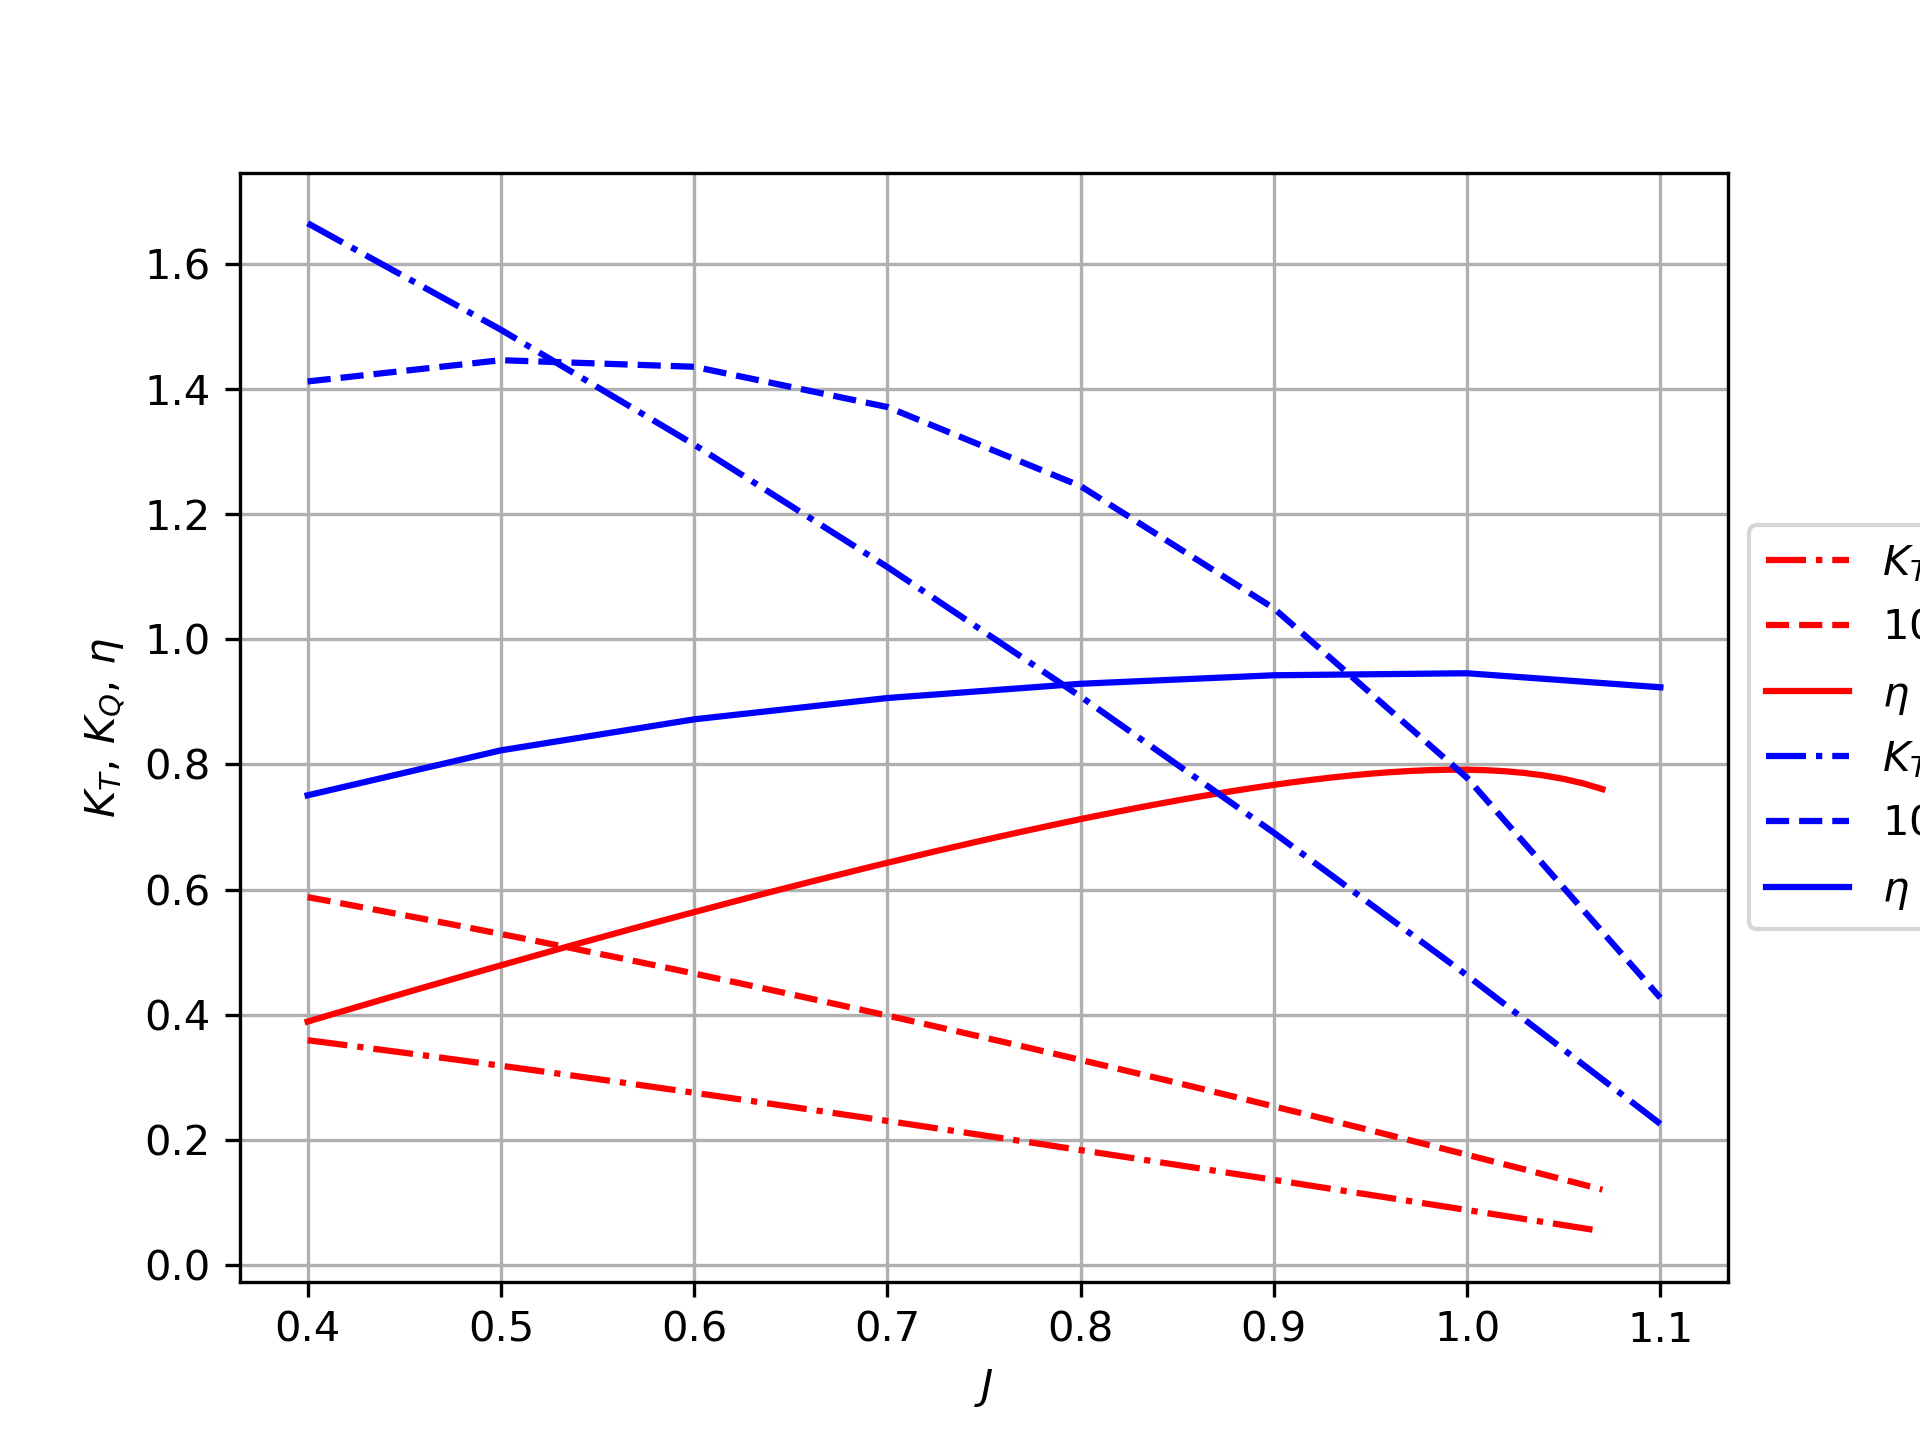
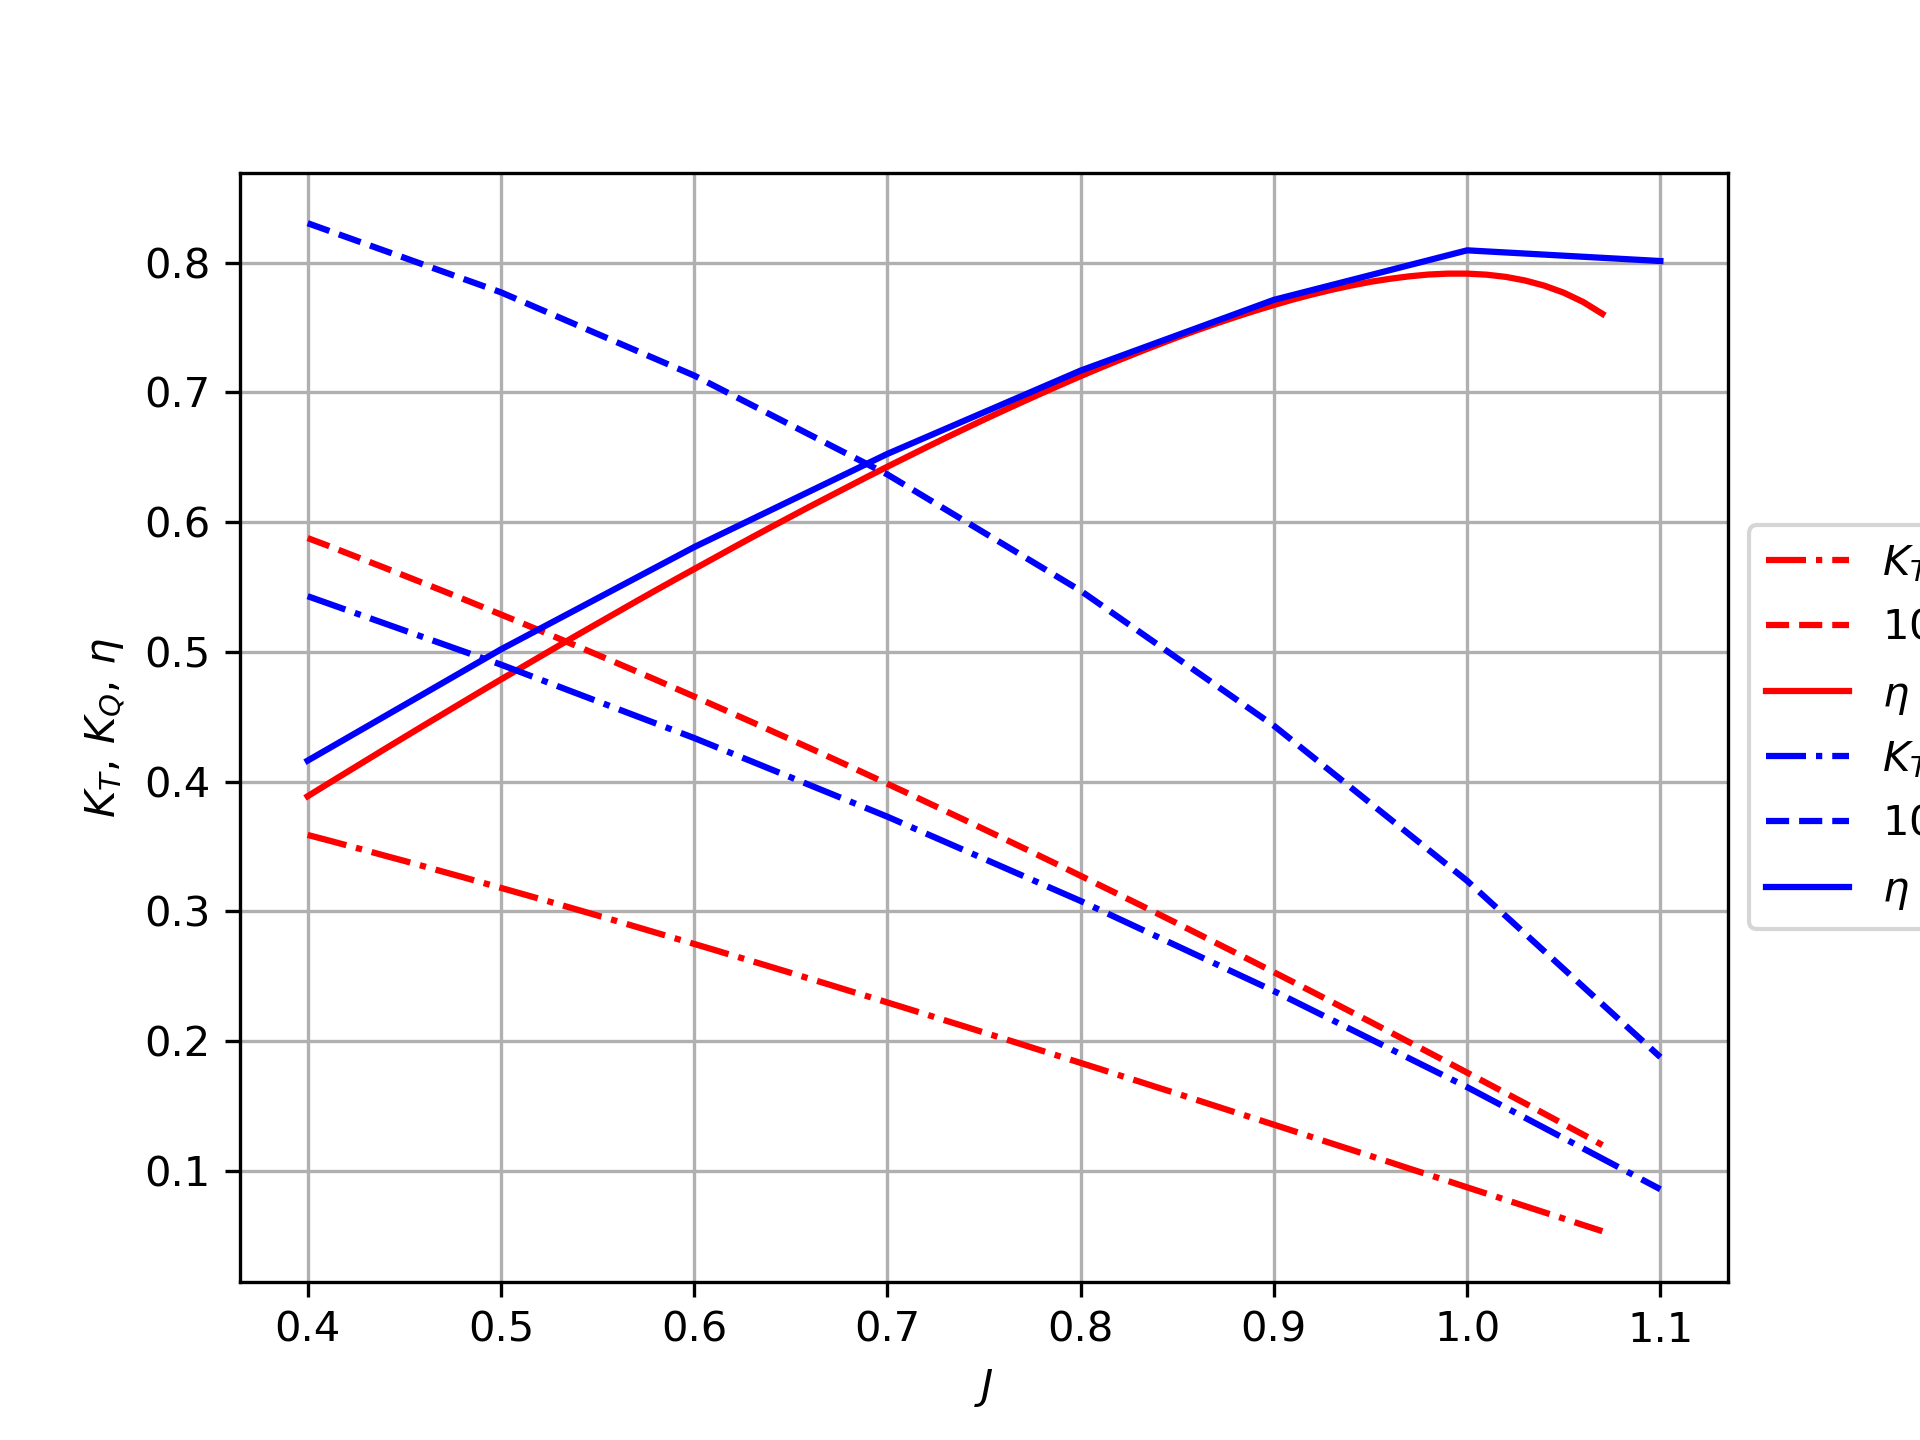
finally q3

diff --git a/lifting_line.py b/lifting_line.py
@@ -216,61 +216,73 @@ def q3():
     T = np.zeros(len(n))
     Q = np.zeros(len(n))
     r = 0   #debug
-    T5 = []    #debug
-    Q5 = []    #debug
     
     for i in range(len(j)):
         k = 0
         rel_diff = 1.
         ut = np.zeros(len(prop.geo.r_R)-1)
-        
         ua = np.zeros(len(prop.geo.r_R)-1)
         
-        gamma = np.zeros(len(prop.geo.r_R)-1)
+        gamma = np.ones(len(prop.geo.r_R)-1)*0.1
+        gamma[0] = 0.
         gamma_new = np.zeros(len(prop.geo.r_R)-1)
         cl = np.zeros(len(prop.geo.r_R)-1)
+        cd = np.zeros(len(prop.geo.r_R)-1)
         dT = np.zeros(len(prop.geo.r_R)-1)
         dQ = np.zeros(len(prop.geo.r_R)-1)
         while k < max_it and rel_diff > tol:
-            if k == 0:
-                ut[:] = 0.
-                ua[:] = 0.1
-            else:
-                ut = gamma/(pi*prop.geo.r_R[:-1]*prop.char.d)
-                delta = v[i]**2 + ut*(2.*pi*n[i]*prop.geo.r_R[:-1]*prop.char.d-ut)
-                ua = -v[i]+np.sqrt(delta)
+            # if k == 0:
+            #     ut[:] = 0.
+            #     ua[:] = 0.1
+            # else:
+            ut = gamma/(pi*prop.geo.r_R[:-1]*prop.char.d)
+            delta = v[i]**2 + ut*(2.*pi*n[i]*prop.geo.r_R[:-1]*prop.char.d-ut)
+            ua = -v[i]+np.sqrt(delta)
             
+            #print(ut, ua)
             # Iterate through the blade sections
             for section in range(len(prop.geo.r_R)-1):
+                if ut[section] == 0.:
+                    ua[section] = 0.1
                 beta = np.arctan(ut[section]/ua[section])
+                #print(beta)
+                #print()
                 aoa_ = aoa(beta, prop, section)
                 #print(rad_to_deg(beta), rad_to_deg(aoa_))
                 #print(aoa_)
                 cl[section] = cl_from_xfoil(aoa_, cl_a, section)
             v_inf = np.sqrt((v[i] + ua/2.)**2 + (prop.geo.r_R[:-1]*prop.char.d*pi*n[i] - ut/2.)**2)
-            gamma_new = cl*v_inf*prop.geo.c_d[:-1]*prop.char.d/(2*prop.char.z)
+            for section in range(len(prop.geo.r_R)-1):
+                cd[section] = cd_ittc(v_inf[section], prop, water, section)
             
+            gamma_new = cl*v_inf*prop.geo.c_d[:-1]*prop.char.d/(2./prop.char.z)
+            print(gamma_new)
             if k == 0:
                 rel_diff = 1.
             else:
                 rel_diff = np.linalg.norm(gamma_new - gamma) / np.mean(gamma)
-            gamma = gamma_new*(1-relax) + gamma*relax
+            gamma = gamma*(1-relax) + gamma_new*relax
             
             k += 1
+            # print(aoa_)
             print(k, rel_diff)
-        
-        cd = cd_ittc(v_inf, prop, water, section)
+            print("----------")
+            
+        beta = np.arctan(ut/ua)
         dr = np.array([dr_section(prop, section) for section in range(len(prop.geo.r_R)-1)])
         dD = water.density/2.*v_inf**2*cd*prop.geo.c_d[:-1]*prop.char.d*dr
         dL = water.density/2.*v_inf**2*cl*prop.geo.c_d[:-1]*prop.char.d*dr
         #print(dL, dD)
         dT[:] = dL*np.cos(beta) - dD*np.sin(beta)
-        dQ[:] = prop.geo.r_R[section]*prop.char.d*(dL*np.sin(beta) + dD*np.cos(beta))/2.
+        dQ[:] = prop.geo.r_R[:-1]*prop.char.d*(dL*np.sin(beta) + dD*np.cos(beta))/2.
         #plt.plot(gamma)
         #plt.show()
         T[i] += dT.sum()
         Q[i] += dQ.sum()
-        
+    
+    # plt.plot(gamma)
+    # plt.show()
+    
     kt = T*prop.char.z /(water.density * n**2 * prop.char.d**4)
     kq = Q*prop.char.z /(water.density * n**2 * prop.char.d**5)
     eta = kt*j/(kq*2*pi)

diff --git a/InductionFactors.py b/InductionFactors.py
@@ -1,0 +1,33 @@
+import numpy as np
+
+def inductionFactors(r, r0, beta_i, Z):
+	''' 
+		This function calculates the induction factors as a specified in "Calculation of Performance and Cavitation Characteristics of Propellers" by Van Oossanen. 
+		In the input variables, r is the running point, while r0 is the fixed point. In the original reference, x is the fixed point and x0 is the running point. 
+		Therefore x_x0 = r0/r, rather than x_x0 = r/r0. The variable names are kept as close to the original reference as possible so it is easier to compare them directly 
+	'''
+	
+	x_x0 = r0/r
+	x0_x = r/r0
+
+	if x_x0 == 1:
+		i_A = np.cos(beta_i)
+		i_T = np.sin(beta_i)
+	else:
+		p = 1+(x_x0**2/np.tan(beta_i)**2)
+		u = np.exp(Z*(np.log((p**0.5-1)*(1/np.sin(beta_i)-1)**(-1)*x0_x)+p**0.5-1/np.sin(beta_i)))    
+		g = (np.sin(beta_i))**3*(2+9/(np.tan(beta_i)**2))+(3*p-5)*p**(-3/2)
+		f = np.sin(beta_i)**(-0.5)*p**(-0.25)
+
+		if x_x0 > 1: 
+			A = f*(1/(u-1)-(g/(24*Z))*np.log(u/(u-1)))
+
+			i_A = (x_x0-1)*Z*A/np.tan(beta_i)
+			i_T = (1-x0_x)*Z*(1+A)
+		else:
+			B = f*(u/(1-u)+(g/(24*Z))*np.log(1/(1-u)))
+
+			i_A = (1-x_x0)*Z*(1+B)/np.tan(beta_i)
+			i_T = (x0_x-1)*Z*B
+
+	return i_A, i_T

diff --git a/SingularIntegration.py b/SingularIntegration.py
@@ -1,0 +1,21 @@
+import numpy as np
+
+def singularIntegration(x, f, x0):
+	''' 
+	This function computes the following integral: J = int f(x)/(x0 - x) dx using singularity subtraction. 
+	'''
+
+	n = len(x)
+	f0 = np.interp(x0, x, f)
+
+	integrand_num = np.zeros(n)
+
+	for i in range(n):
+		if x[i] - x0 != 0:
+			integrand_num[i] = f[i]/(x0 - x[i]) - f0/(x0 - x[i])
+
+	J = np.trapz(integrand_num, x=x)
+
+	J += f0*(-np.log(x[-1] - x0) + np.log(x0 - x[0]))
+
+	return J
